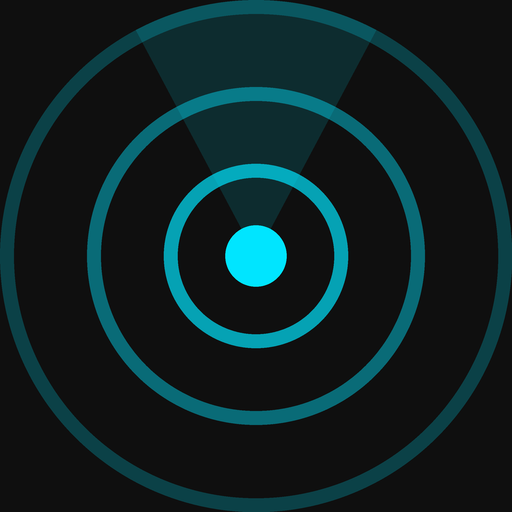
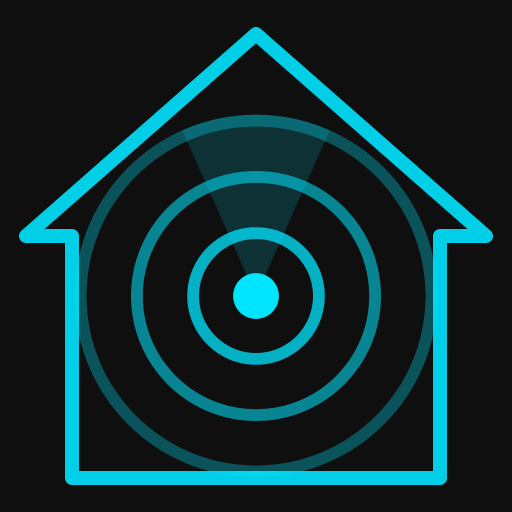
Add files via upload

diff --git a/dashboard.html b/dashboard.html
@@ -393,11 +393,7 @@ textarea.note:focus{outline:none;border-color:var(--cyan)}
 
 <header class="topbar">
   <div class="brand">
-    <svg width="30" height="30" viewBox="0 0 40 40" aria-hidden="true">
-      <circle cx="20" cy="20" r="18" fill="none" stroke="#00E5FF" stroke-opacity=".22" stroke-width="1.5"/>
-      <circle cx="20" cy="20" r="12" fill="none" stroke="#00E5FF" stroke-opacity=".38" stroke-width="1.5"/>
-      <path d="M13.5 21 L20 15 L26.5 21 V27 H13.5 Z" fill="#00E5FF"/>
-    </svg>
+    <svg width="30" height="30" viewBox="0 0 32 32" aria-hidden="true"><path d="M16 3 L29 14.5 H26.5 V29 H5.5 V14.5 H3 Z" fill="none" stroke="#00E5FF" stroke-width="1.8" stroke-linejoin="round"/><circle cx="16" cy="20" r="6" fill="none" stroke="#00E5FF" stroke-opacity=".55" stroke-width="1.5"/><circle cx="16" cy="20" r="2.4" fill="#00E5FF"/></svg>
     <div>
       <h1>RADAR <span style="color:var(--cyan)">CASA</span></h1>
       <div class="sub">Dashboard comunale</div>

diff --git a/index.html b/index.html
@@ -81,7 +81,7 @@ body{font-family:-apple-system,BlinkMacSystemFont,'Segoe UI',Roboto,sans-serif;b
 <body>
 <header class="top">
   <div class="logo">
-    <svg viewBox="0 0 32 32" aria-hidden="true"><circle cx="16" cy="16" r="14" fill="none" stroke="#00E5FF" stroke-opacity=".35" stroke-width="1.5"/><circle cx="16" cy="16" r="9.5" fill="none" stroke="#00E5FF" stroke-opacity=".6" stroke-width="1.5"/><path d="M11 17 L16 12.2 L21 17 V21.5 H11 Z" fill="#00E5FF"/></svg>
+    <svg viewBox="0 0 32 32" aria-hidden="true"><path d="M16 3 L29 14.5 H26.5 V29 H5.5 V14.5 H3 Z" fill="none" stroke="#00E5FF" stroke-width="1.8" stroke-linejoin="round"/><circle cx="16" cy="20" r="6" fill="none" stroke="#00E5FF" stroke-opacity=".55" stroke-width="1.5"/><circle cx="16" cy="20" r="2.4" fill="#00E5FF"/></svg>
     <b>RADAR <span>CASA</span></b>
   </div>
   <div class="top-sub">Case sfitte e famiglie che cercano casa</div>
